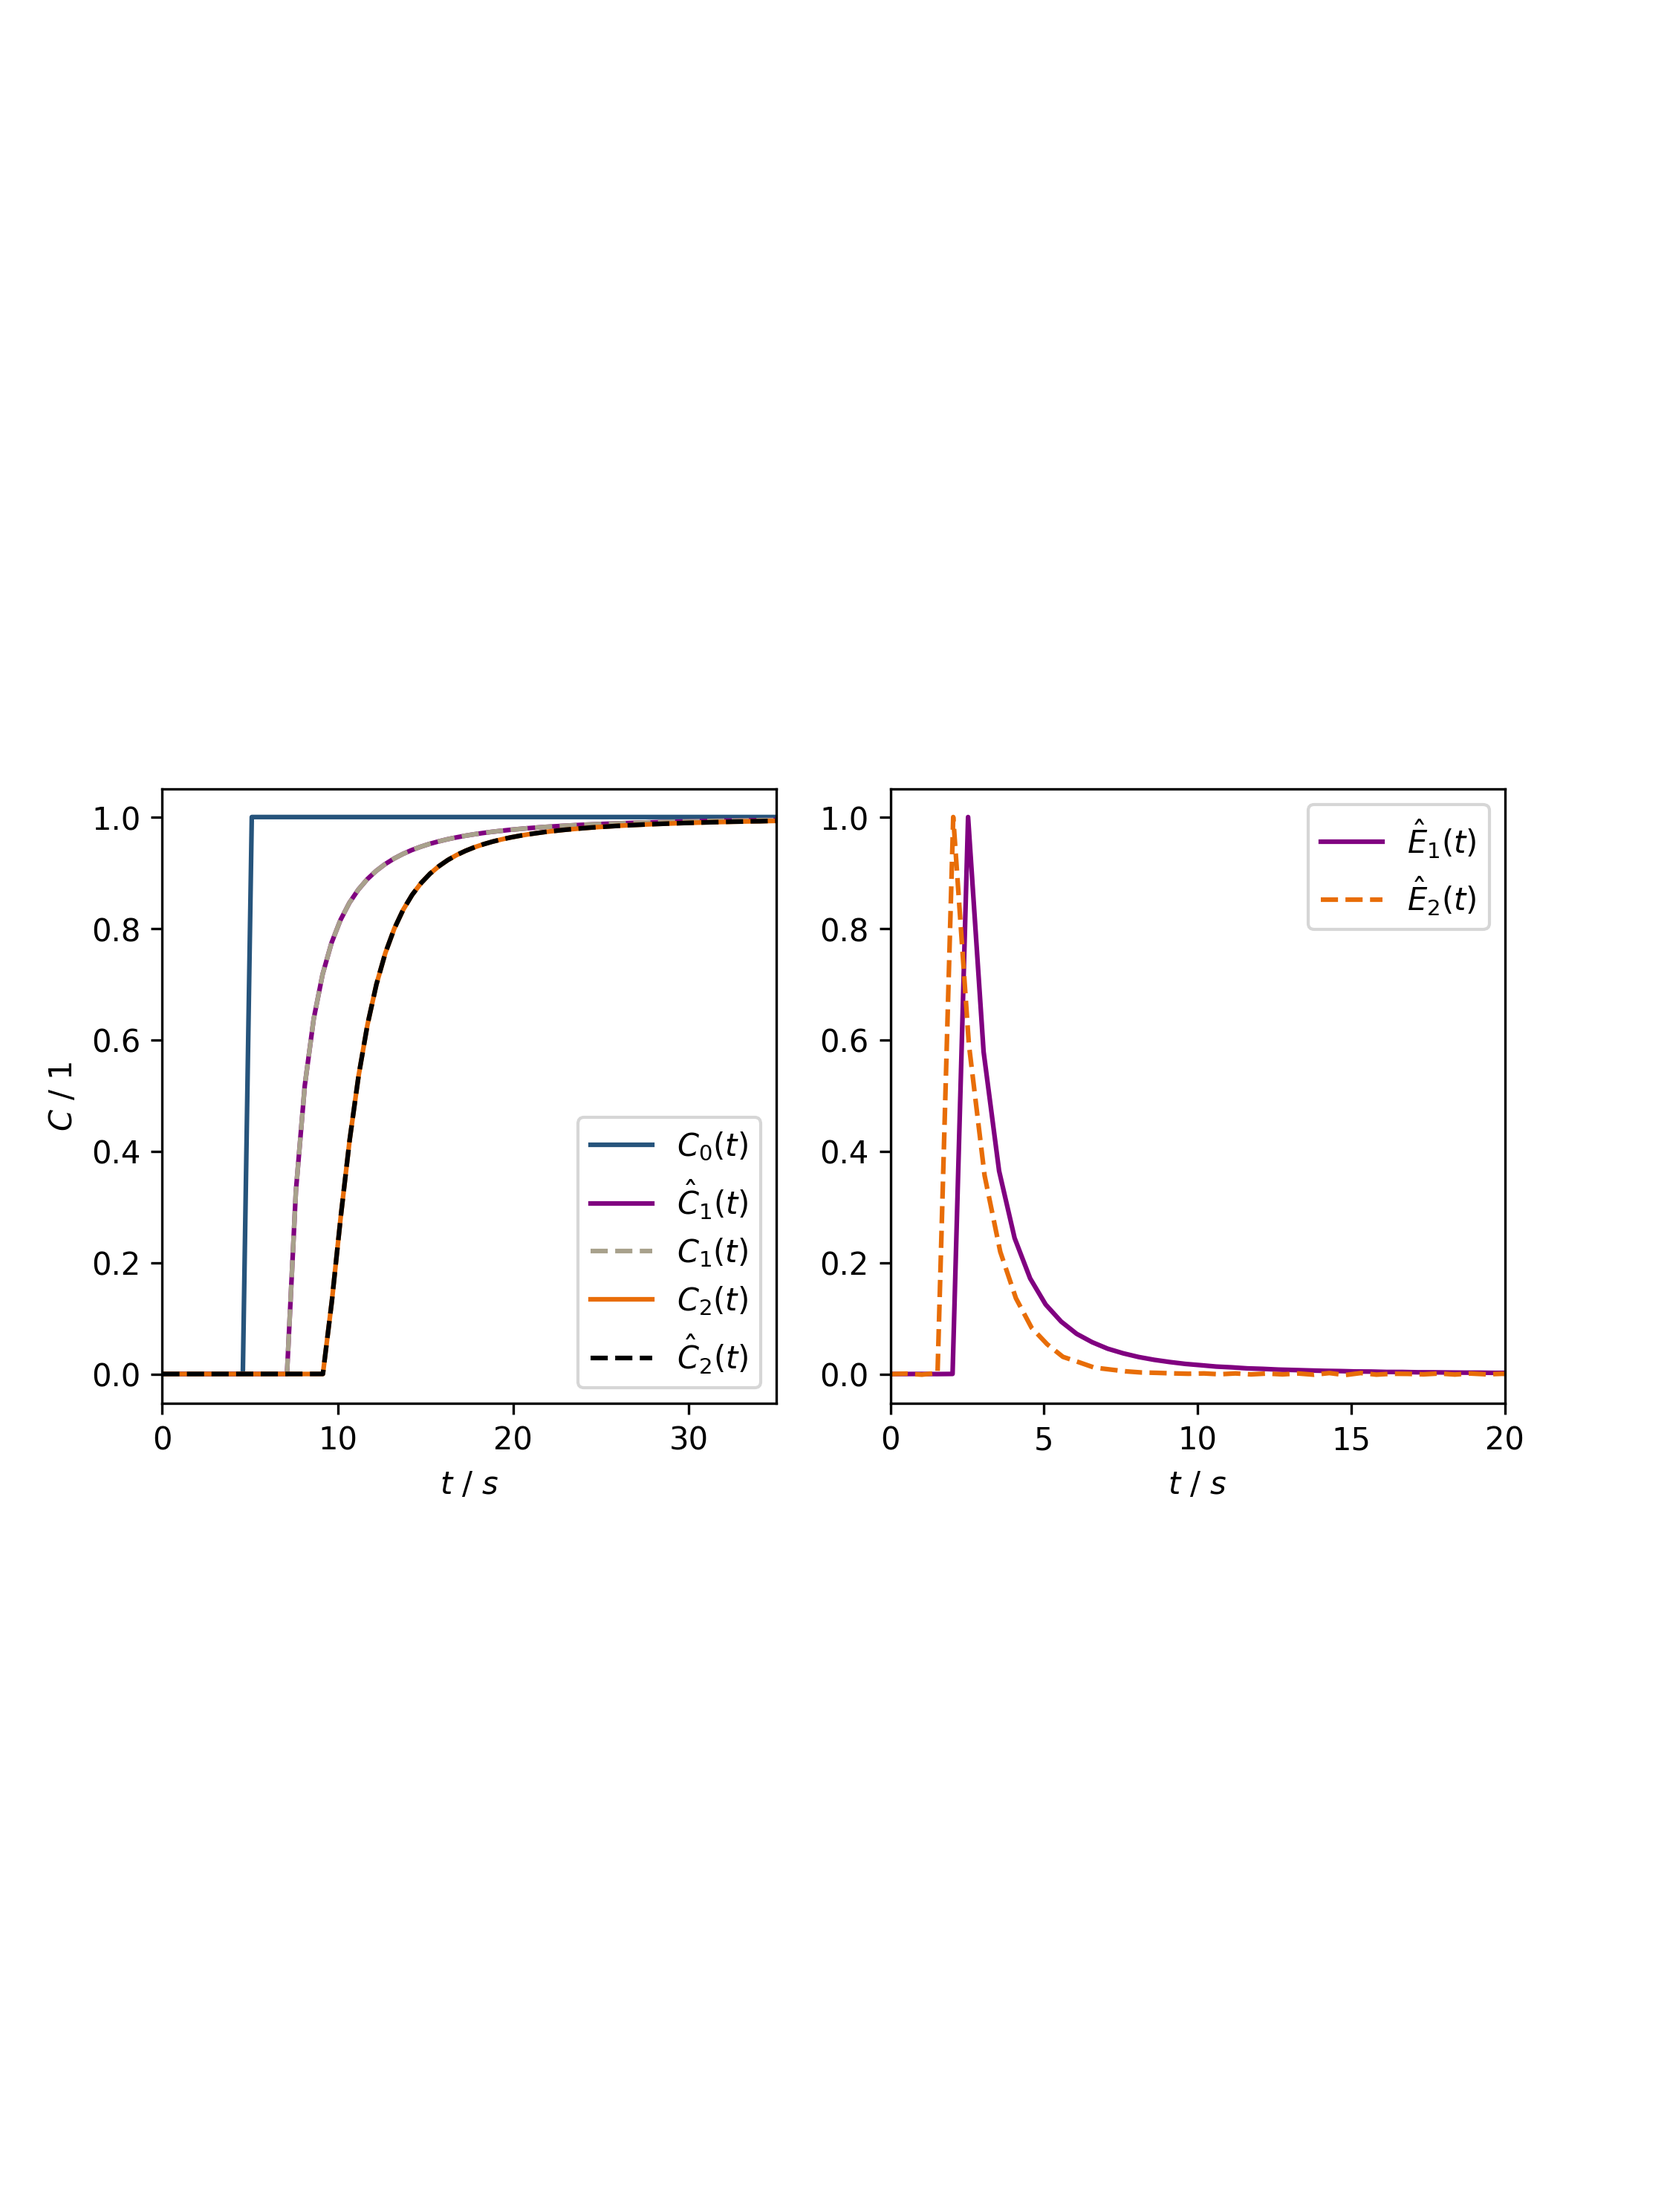
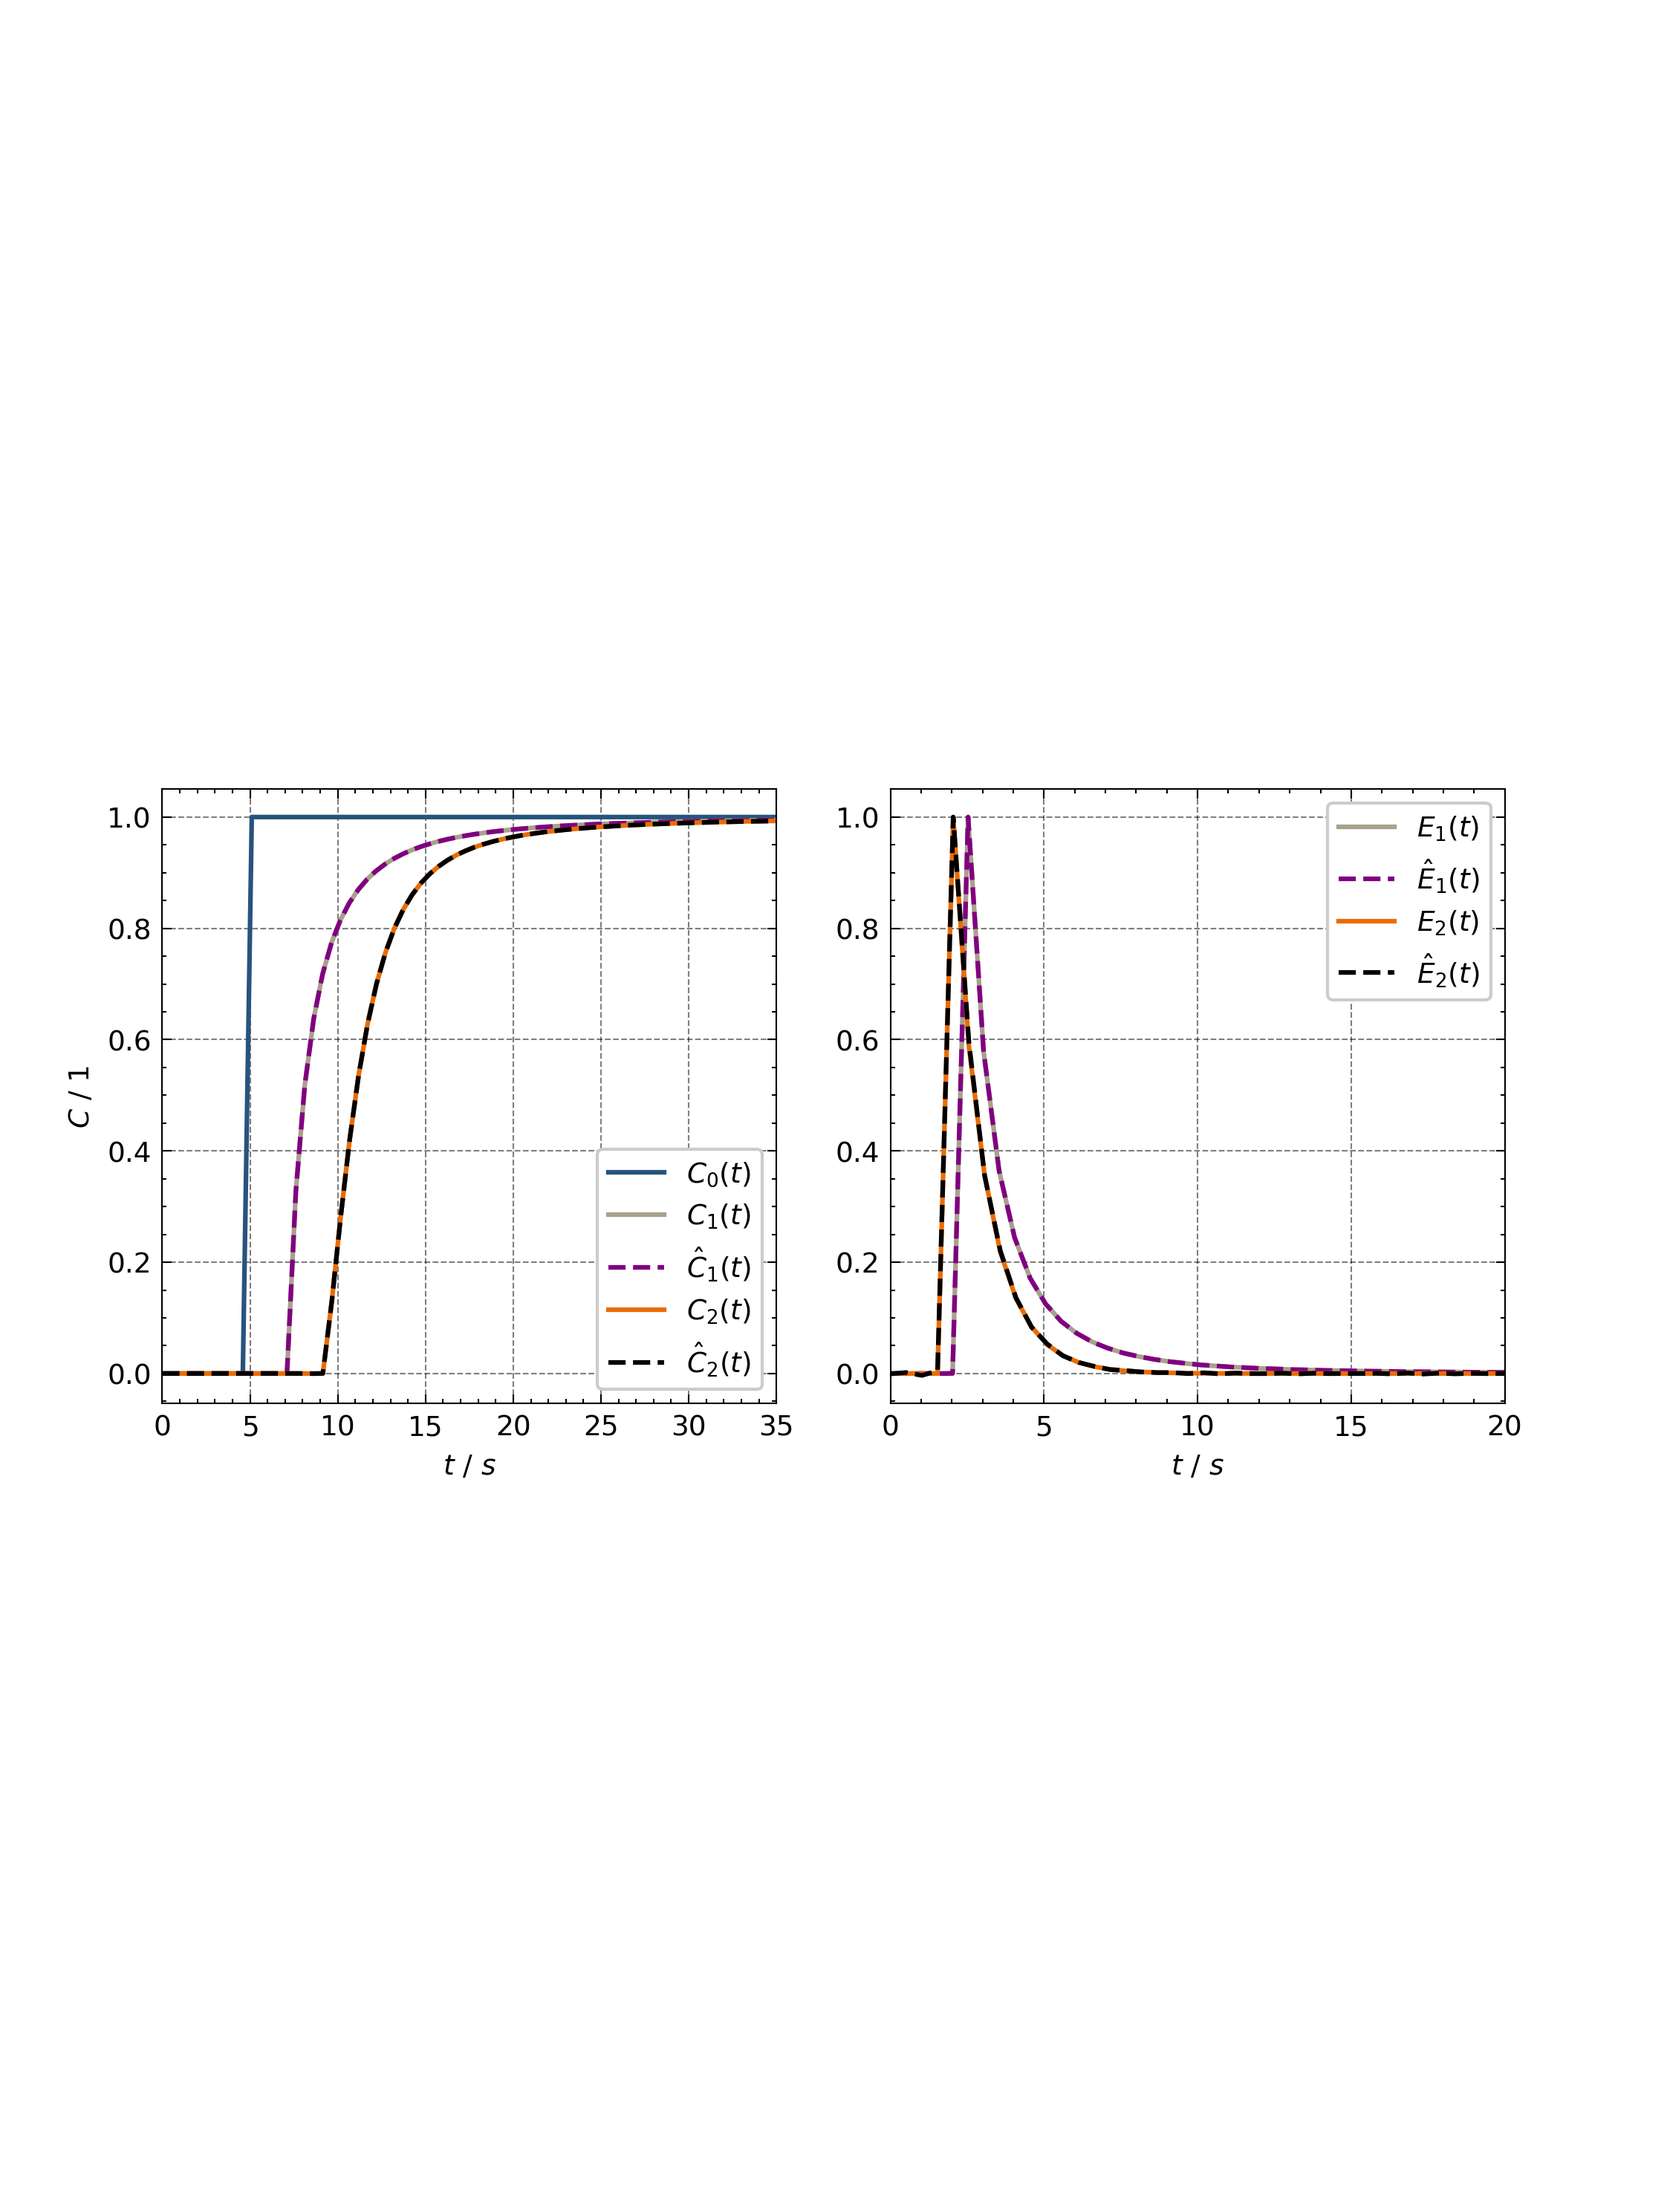
Lam&Ad 2nd layer

diff --git a/Experiments/Preliminary/2_nd_Layer_Convolution/Convolution_Script_w_Disc/Convolution_Script_w_Disc_001.py b/Experiments/Preliminary/2_nd_Layer_Convolution/Convolution_Script_w_Disc/Convolution_Script_w_Disc_001.py
@@ -19,8 +19,11 @@ import datetime
 import sympy as sp
 from sympy import ceiling
 from ICIW_Plots import make_square_ax, cm2inch
+from ICIW_Plots import make_square_subplots
 
 
+if wandb.run is not None:
+    wandb.finish()
 #Parameters
 tau_l = 5.0
 coefficients = {
@@ -30,7 +33,7 @@ coefficients = {
     'alpha_val': 0.2}
 
 epoch_1=15000
-epoch_2=200000
+epoch_2=250000
 learning_rate=1e-2
 learning_rate_2=1e-2
 
@@ -344,6 +347,89 @@ c_conv_2 = model_2(c_2_in)
 c_conv_2_results[n_2_out] = c_conv_2.detach().numpy()
 #E = model_2.net.E[0]
 ####Plotting
+E_Adler_normalized = E_Adler / np.max(E_Adler)
+E_learned_1 = model.net.E[0] if isinstance(model.net.E[0], np.ndarray) else model.net.E[0].numpy()
+E_learned_2 = model_2.net.E[0] if isinstance(model_2.net.E[0], np.ndarray) else model_2.net.E[0].numpy()
+E_learned_1 /= np.max(E_learned_1)
+E_learned_2 /= np.max(E_learned_2)
+t_adler = t_values_Adler if isinstance(t_values_Adler, np.ndarray) else t_values_Adler.numpy()
+t_learned_1 = np.linspace(0, t_e, len(E_learned_1))
+t_learned_2 = np.linspace(0, t_e_2, len(E_learned_2))
+
+
+plt.style.use("ICIWstyle")
+import ICIW_Plots.colors as ICIWcolors
+from ICIW_Plots.figures import Elsevier_Sizes
+import datetime
+import ICIW_Plots.colors as ICIWcolors
+from ICIW_Plots.figures import Elsevier_Sizes, ACS_Sizes
+from ICIW_Plots import make_square_ax, cm2inch
+from ICIW_Plots import make_rect_ax
+fig = plt.figure( figsize=(Elsevier_Sizes.double_column["in"], 25 * cm2inch))  # Increased figure height for better spacing
+axs = make_square_subplots(
+    fig=fig,
+    ax_width=7 * cm2inch,#dimension of the plots
+    ax_layout=(1, 2),  
+    h_sep=1.3 * cm2inch,  
+    v_sep=1 * cm2inch, 
+    sharex=True,
+    sharey=True,
+    xlabel=[r"$t$ / $s$", r"$t$ / $s$"], 
+    ylabel=
+        [r"$C$ / $1$"
+    ])
+
+axs[0, 0].plot(t_1_in_reshaped, c_1_in_reshaped, label=r"$C_0(t)$", color=ICIWcolors.CERULEAN)
+axs[0, 0].plot(
+    t_conv_reshaped,  # Ensure this is 1D
+    c_out_l_reshaped,
+    label=r"$C_1(t)$",
+    color=ICIWcolors.DRAB
+)
+axs[0, 0].plot(
+    t_conv_reshaped,
+    c_conv_reshaped,
+    label=r"$\hat{C}_1(t)$",
+   color="purple",
+    linestyle="--"
+)
+
+
+axs[0, 0].plot(
+    t_out_l_a.squeeze().numpy(),  # Ensure this is 1D
+    c_out_l_a.squeeze().numpy(),
+    label=r"$C_2(t)$",
+    color=ICIWcolors.FLAME)
+
+axs[0, 0].plot(
+    t_out_l_a.squeeze().numpy(),
+    c_conv_2.detach().squeeze().numpy(),
+    label=r"$\hat{C}_2(t)$",
+   color="black",
+    linestyle="--"
+)
+
+axs[0, 1].plot(
+    t_learned_1,  # Ensure this is also 1D
+    E_learned_1, label=r"$\hat{E}_1(t)$", color="purple"
+)
+axs[0, 1].plot(
+    t_learned_2,  # Ensure this is also 1D
+    E_learned_2,label=r"$\hat{E}_2(t)$", color=ICIWcolors.FLAME
+)
+####
+
+
+axs[0, 0].set_xlim((0, 35)) 
+axs[0, 1].set_xlim((0, 20)) 
+axs[0, 0].legend(loc="best")
+axs[0, 1].legend(loc="best")
+plt.savefig(os.path.join(base_dir, f"Lam_adl_1.png"), dpi=300)
+plt.show()
+
+
+
+####
 fig, ax1 = plt.subplots(1, 1, sharex=True, figsize=(10, 8))
 ax1.plot(t_2_in.squeeze().numpy(), c_2_in.squeeze().numpy(), label="Input Signal", color="blue", linestyle="--")
 ax1.plot(t_out_l_a.squeeze().numpy(), c_out_l_a.squeeze().numpy(), label="Expected Output", color="green")
@@ -357,6 +443,7 @@ ax1.set_ylabel('Concentration')
 ax1.set_xlabel('Time')
 ax1.legend()
 
+plt.style.use("ICIWstyle")
 import ICIW_Plots.colors as ICIWcolors
 from ICIW_Plots.figures import Elsevier_Sizes
 import datetime
@@ -364,7 +451,6 @@ import ICIW_Plots.colors as ICIWcolors
 from ICIW_Plots.figures import Elsevier_Sizes, ACS_Sizes
 from ICIW_Plots import make_square_ax, cm2inch
 from ICIW_Plots import make_rect_ax
-plt.style.use("ICIWstyle")
 fig = plt.figure(figsize=(Elsevier_Sizes.single_column["in"], 12 * cm2inch))
 ax = make_rect_ax(
     fig,
